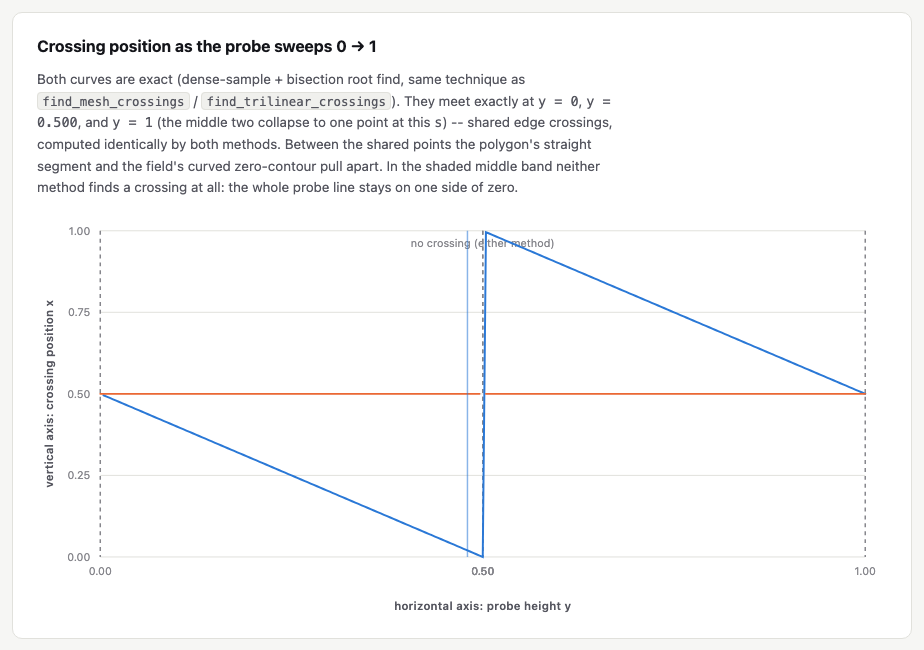
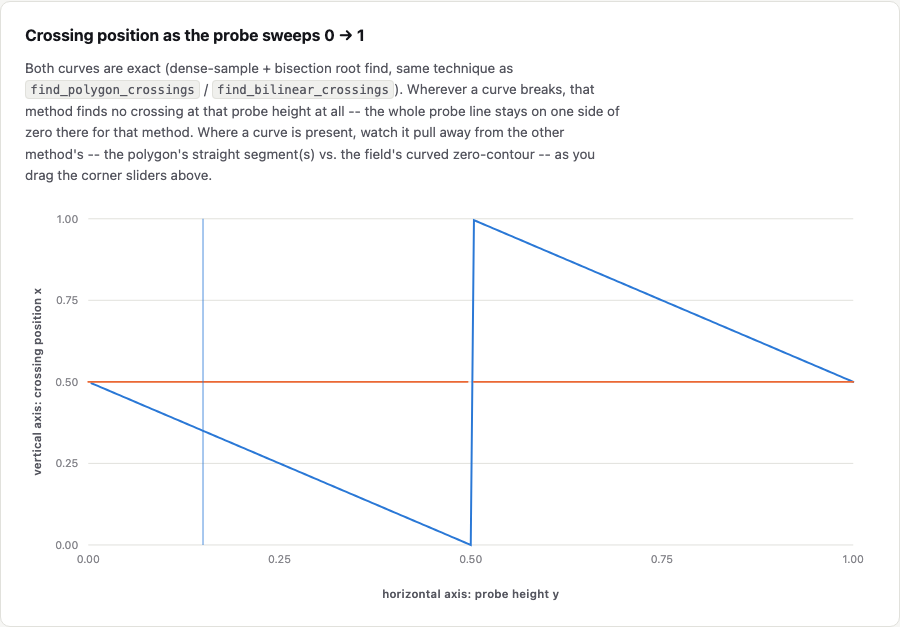
Make all four cell corners independently slider-controlled
Replaces the single s slider (which only reached the fixed case-5
saddle pattern, v0=v2=-s/v1=v3=1) with four independent corner
sliders, and ports levelset2d_polygon's full 16-case MarchCell switch
into the page's JS (previously it only implemented case 5's branch).
Every corner-sign combination is now reachable, including the
complementary case-10 saddle and all 12 unambiguous single-segment
cases.

The case-5-specific "shared boundary" dashed lines and no-crossing
gap band in the sweep chart didn't generalize to arbitrary corners,
so those are replaced with a generic description. Regenerated the
three README preview images to match (same states as before, just
without the now-removed annotations).

diff --git a/docs/polygon_vs_bilinear_probe.html b/docs/polygon_vs_bilinear_probe.html
@@ -20,7 +20,6 @@
     --outside: #e34948;
     --diverge-mid: #f0efec;
 
-    --gap-fill: rgba(134, 134, 140, 0.12);
     --focus: #2a78d6;
   }
   @media (prefers-color-scheme: dark) {
@@ -43,7 +42,6 @@
       --outside: #e66767;
       --diverge-mid: #383835;
 
-      --gap-fill: rgba(121, 122, 130, 0.18);
       --focus: #3987e5;
     }
   }
@@ -66,7 +64,6 @@
     --outside: #e66767;
     --diverge-mid: #383835;
 
-    --gap-fill: rgba(121, 122, 130, 0.18);
     --focus: #3987e5;
   }
   :root[data-theme="light"] .viz-root {
@@ -88,7 +85,6 @@
     --outside: #e34948;
     --diverge-mid: #f0efec;
 
-    --gap-fill: rgba(134, 134, 140, 0.12);
     --focus: #2a78d6;
   }
 
@@ -245,6 +241,8 @@
   .slider-row { display: flex; flex-direction: column; gap: 8px; }
   .slider-row .slider-label { display: flex; justify-content: space-between; font-size: 12.5px; color: var(--text-secondary); }
   .slider-row input[type="range"] { width: 100%; accent-color: var(--focus); }
+  .corner-sliders { display: grid; grid-template-columns: 1fr 1fr; gap: 10px 16px; }
+  @media (max-width: 420px) { .corner-sliders { grid-template-columns: 1fr; } }
 
   .readout {
     display: flex;
@@ -279,9 +277,6 @@
   .axis-label { fill: var(--text-muted); font-size: 11px; }
   .axis-title { fill: var(--text-secondary); font-size: 11.5px; font-weight: 600; letter-spacing: 0.02em; }
   .gridline { stroke: var(--border); stroke-width: 1; }
-  .gap-band { fill: var(--gap-fill); }
-  .coincide-line { stroke: var(--text-muted); stroke-width: 1.5; stroke-dasharray: 4 4; }
-  .region-label { fill: var(--text-muted); font-size: 11px; }
   .line-mesh { fill: none; stroke: var(--mesh); stroke-width: 2; stroke-linecap: round; }
   .line-bl { fill: none; stroke: var(--bl); stroke-width: 2; stroke-linecap: round; }
   .crosshair { stroke: var(--text-muted); stroke-width: 1; }
@@ -324,27 +319,30 @@
 <div class="viz-page">
 
   <header class="viz-header">
-    <span class="eyebrow">levelset2d_polygon · single grid cell · case 5</span>
+    <span class="eyebrow">levelset2d_polygon · single grid cell · all 16 MarchCell cases</span>
     <h1>Sweeping a measurement line across one cell</h1>
     <p class="lede">
-      One 2&times;2 level-set cell, corners 0 and 2 negative (inside), corners 1 and 3 positive
-      (outside, fixed at <code>+1</code>). A horizontal probe line scans from <code>y = 0</code> to
-      <code>y = 1</code>. At each height we compare where the extracted polygon's edge crosses the
-      probe against where the raw bilinear field itself crosses zero. Unlike the 3D marching-cubes
-      case, <code>levelset2d_polygon</code>'s marching squares resolves this saddle correctly (it
-      picks the topology using the true cell-center value) — so here the two methods never disagree
-      on <em>whether</em> there's a crossing, only on <em>where</em> it is, no matter how the
-      inside-corner magnitude is set.
+      One 2&times;2 level-set cell, all four corner values independently adjustable. A horizontal
+      probe line scans from <code>y = 0</code> to <code>y = 1</code>. At each height we compare
+      where the extracted polygon's edge crosses the probe against where the raw bilinear field
+      itself crosses zero. Every corner-sign combination runs through the same
+      <code>MarchCell</code> switch <code>levelset2d_polygon</code> itself uses (all 16 cases, not
+      just the saddle) -- including, for the two ambiguous saddle cases (5 and 10), the true
+      cell-center-value disambiguation. That's why, unlike the 3D marching-cubes case, the two
+      methods here never disagree on <em>whether</em> there's a crossing, only on <em>where</em> it
+      is, no matter how the four corners are set.
     </p>
   </header>
 
   <section class="card">
     <h2>Move the probe line</h2>
     <p class="desc">
-      Drag the slider to move the horizontal probe from the bottom edge to the top edge. The polygon
-      (blue) is the two straight segments <code>levelset2d_polygon</code>'s <code>MarchCell</code>
-      actually emits for this configuration; the field behind it is the true bilinear value, colored
-      blue (inside) to red (outside).
+      Drag each corner slider to set that corner's level-set value (negative = inside, positive =
+      outside); drag the probe slider to move the horizontal probe from the bottom edge to the top
+      edge. The polygon (blue) is whichever straight segment(s) -- zero, one, or two, depending on
+      which of <code>MarchCell</code>'s 16 cases the current corner signs land on --
+      <code>levelset2d_polygon</code>'s <code>MarchCell</code> actually emits for this configuration;
+      the field behind it is the true bilinear value, colored blue (inside) to red (outside).
     </p>
     <div class="legend">
       <div class="legend-item"><span class="swatch" style="background:var(--mesh)"></span>Polygon crossing (marching squares)</div>
@@ -369,9 +367,23 @@
         </div>
       </div>
       <div style="display:flex; flex-direction:column; gap:16px;">
-        <div class="slider-row">
-          <div class="slider-label"><span>inside-corner magnitude <span class="mono" id="sLabel">s = 2.00</span></span><span>0.2 &rarr; 3.0</span></div>
-          <input type="range" id="sSlider" min="0.2" max="3.0" step="0.05" value="2.0" />
+        <div class="corner-sliders">
+          <div class="slider-row">
+            <div class="slider-label"><span>corner 0 <span class="mono" id="v0Label">v0 = -2.00</span></span></div>
+            <input type="range" id="v0Slider" min="-3.0" max="3.0" step="0.1" value="-2.0" />
+          </div>
+          <div class="slider-row">
+            <div class="slider-label"><span>corner 1 <span class="mono" id="v1Label">v1 = 1.00</span></span></div>
+            <input type="range" id="v1Slider" min="-3.0" max="3.0" step="0.1" value="1.0" />
+          </div>
+          <div class="slider-row">
+            <div class="slider-label"><span>corner 2 <span class="mono" id="v2Label">v2 = -2.00</span></span></div>
+            <input type="range" id="v2Slider" min="-3.0" max="3.0" step="0.1" value="-2.0" />
+          </div>
+          <div class="slider-row">
+            <div class="slider-label"><span>corner 3 <span class="mono" id="v3Label">v3 = 1.00</span></span></div>
+            <input type="range" id="v3Slider" min="-3.0" max="3.0" step="0.1" value="1.0" />
+          </div>
         </div>
         <div class="slider-row">
           <div class="slider-label"><span>probe height <span class="mono" id="yLabel">y = 0.15</span></span><span>0 &rarr; 1</span></div>
@@ -392,11 +404,11 @@
   </section>
 
   <footer class="viz-footer">
-    Corner values and topology follow <code>levelset2d_polygon</code>'s own
-    <code>detail/marching_squares.hpp</code> <code>MarchCell</code> case 5 exactly: the cell-center
-    value picks <code>B()&ndash;R()</code> / <code>T()&ndash;L()</code> when negative, or
-    <code>B()&ndash;L()</code> / <code>T()&ndash;R()</code> when positive. This page's JS
-    reproduces <code>levelset2d_bilinear_measure</code>'s
+    Topology follows <code>levelset2d_polygon</code>'s own
+    <code>detail/marching_squares.hpp</code> <code>MarchCell</code> exactly -- the full 16-case
+    switch on corner signs, including both ambiguous saddle cases' (5 and 10) true
+    cell-center-value disambiguation, not just the fixed case-5 configuration this page used to
+    show. This page's JS reproduces <code>levelset2d_bilinear_measure</code>'s
     <code>bilinear.hpp</code>/<code>polygon_intersection.hpp</code> exactly (same
     dense-sample-plus-bisection root find as that library's
     <code>FindBilinearCrossings</code>) and is cross-checked against that library's own
@@ -417,25 +429,41 @@
     return [pa[0] + t * (pb[0] - pa[0]), pa[1] + t * (pb[1] - pa[1])];
   }
 
-  let S, V00, V10, V11, V01, CENTER, B, R, T, L, SEGMENTS, T_LO, T_HI;
+  let V00, V10, V11, V01, SEGMENTS;
 
+  // Full port of levelset2d_polygon's detail/marching_squares.hpp MarchCell:
+  // the same 4-bit case index (bit c set when corner c is inside), the same
+  // 12 unambiguous single-segment cases, and the same true-center-value
+  // disambiguation for the two ambiguous saddle cases (5 and 10).
   function computeGeometry() {
-    V00 = -S; V10 = 1; V11 = -S; V01 = 1;
-    CENTER = (V00 + V10 + V11 + V01) / 4;
-    B = interp(P00, V00, P10, V10);
-    R = interp(P10, V10, P11, V11);
-    T = interp(P01, V01, P11, V11);
-    L = interp(P00, V00, P01, V01);
-    // case 5: center < 0 -> connected topology (B-R, T-L); center > 0 -> B-L, T-R.
-    // Matches levelset2d_polygon's MarchCell exactly for either sign.
-    SEGMENTS = CENTER < 0 ? [[B, R], [T, L]] : [[B, L], [T, R]];
-    // Both branches' segments span y in [0, S/(1+S)] and [1/(1+S), 1] (just
-    // paired with different corners), so the shared boundary heights -- where
-    // mesh and bilinear crossings coincide exactly, since they're literally
-    // reading the same edge-interpolated value -- are always these two.
-    const a = S / (1 + S), b = 1 / (1 + S);
-    T_LO = Math.min(a, b);
-    T_HI = Math.max(a, b);
+    const in00 = V00 < 0, in10 = V10 < 0, in11 = V11 < 0, in01 = V01 < 0;
+    const caseIndex = (in00 ? 1 : 0) | (in10 ? 2 : 0) | (in11 ? 4 : 0) | (in01 ? 8 : 0);
+
+    const B = interp(P00, V00, P10, V10);
+    const R = interp(P10, V10, P11, V11);
+    const T = interp(P01, V01, P11, V11);
+    const L = interp(P00, V00, P01, V01);
+    const center = (V00 + V10 + V11 + V01) / 4;
+
+    switch (caseIndex) {
+      case 0: case 15: SEGMENTS = []; break;
+      case 1: SEGMENTS = [[B, L]]; break;
+      case 2: SEGMENTS = [[R, B]]; break;
+      case 3: SEGMENTS = [[R, L]]; break;
+      case 4: SEGMENTS = [[T, R]]; break;
+      case 6: SEGMENTS = [[T, B]]; break;
+      case 7: SEGMENTS = [[T, L]]; break;
+      case 8: SEGMENTS = [[L, T]]; break;
+      case 9: SEGMENTS = [[B, T]]; break;
+      case 11: SEGMENTS = [[R, T]]; break;
+      case 12: SEGMENTS = [[L, R]]; break;
+      case 13: SEGMENTS = [[B, R]]; break;
+      case 14: SEGMENTS = [[L, B]]; break;
+      // corners 0,2 inside; 1,3 outside -- ambiguous, disambiguated by center.
+      case 5: SEGMENTS = center < 0 ? [[B, R], [T, L]] : [[B, L], [T, R]]; break;
+      // corners 1,3 inside; 0,2 outside -- the complementary saddle.
+      case 10: SEGMENTS = center < 0 ? [[L, B], [R, T]] : [[R, B], [L, T]]; break;
+    }
   }
 
   function bilinear(x, y) {
@@ -482,8 +510,8 @@
   // ---- cell panel ---------------------------------------------------
 
   const cellWrap = document.getElementById("cellWrap");
-  const sSlider = document.getElementById("sSlider");
-  const sLabel = document.getElementById("sLabel");
+  const cornerSliders = [0, 1, 2, 3].map((i) => document.getElementById("v" + i + "Slider"));
+  const cornerLabels = [0, 1, 2, 3].map((i) => document.getElementById("v" + i + "Label"));
   const ySlider = document.getElementById("ySlider");
   const yLabel = document.getElementById("yLabel");
   const readout = document.getElementById("readout");
@@ -588,19 +616,13 @@
   function fmt(x) { return x.toFixed(3); }
 
   function updateChartDesc() {
-    const meetPoints = T_HI - T_LO < 0.0005
-      ? '<span class="mono">y = 0</span>, <span class="mono">y = ' + T_LO.toFixed(3) +
-        '</span>, and <span class="mono">y = 1</span> (the middle two collapse to one point at ' +
-        'this <span class="mono">s</span>)'
-      : '<span class="mono">y = 0</span>, <span class="mono">y = ' + T_LO.toFixed(3) +
-        '</span>, <span class="mono">y = ' + T_HI.toFixed(3) + '</span>, and <span class="mono">y = 1</span>';
     chartDesc.innerHTML =
       'Both curves are exact (dense-sample + bisection root find, same technique as ' +
-      '<code>find_mesh_crossings</code> / <code>find_trilinear_crossings</code>). They meet ' +
-      'exactly at ' + meetPoints + ' -- shared edge crossings, computed identically by both ' +
-      "methods. Between the shared points the polygon's straight segment and the field's curved " +
-      'zero-contour pull apart. In the shaded middle band neither method finds a crossing at all: ' +
-      'the whole probe line stays on one side of zero.';
+      '<code>find_polygon_crossings</code> / <code>find_bilinear_crossings</code>). Wherever a ' +
+      "curve breaks, that method finds no crossing at that probe height at all -- the whole probe " +
+      'line stays on one side of zero there for that method. Where a curve is present, watch it ' +
+      "pull away from the other method's -- the polygon's straight segment(s) vs. the field's " +
+      'curved zero-contour -- as you drag the corner sliders above.';
   }
 
   function updateProbe() {
@@ -716,7 +738,7 @@
       lbl.textContent = t.toFixed(2);
       svg.appendChild(lbl);
     });
-    const xTicks = [0, T_LO, 0.5, T_HI, 1.0];
+    const xTicks = [0, 0.25, 0.5, 0.75, 1.0];
     xTicks.forEach((y0) => {
       const lbl = svgEl("text", { class: "axis-label", x: xOf(y0), y: H - M.bottom + 18, "text-anchor": "middle" });
       lbl.textContent = y0.toFixed(2);
@@ -732,18 +754,6 @@
     const xAxisTitle = svgEl("text", { class: "axis-title", x: M.left + plotW / 2, y: H - 8, "text-anchor": "middle" });
     xAxisTitle.textContent = "horizontal axis: probe height y";
     svg.appendChild(xAxisTitle);
-
-    // gap band: [T_LO, T_HI], where neither method has a crossing
-    svg.appendChild(svgEl("rect", {
-      class: "gap-band", x: xOf(T_LO), y: M.top, width: xOf(T_HI) - xOf(T_LO), height: plotH,
-    }));
-    const gapLabel = svgEl("text", { class: "region-label", x: (xOf(T_LO) + xOf(T_HI)) / 2, y: M.top + 16, "text-anchor": "middle" });
-    gapLabel.textContent = "no crossing (either method)";
-    svg.appendChild(gapLabel);
-
-    [0, T_LO, T_HI, 1].forEach((y0) => {
-      svg.appendChild(svgEl("line", { class: "coincide-line", x1: xOf(y0), x2: xOf(y0), y1: M.top, y2: H - M.bottom }));
-    });
 
     const meshCurve = buildCurve((y0) => meshCrossings(y0), "lower");
     const blCurve = buildCurve((y0) => bilinearCrossings(y0), "lower");
@@ -811,16 +821,17 @@
     updateProbe();
   }
 
-  function onSChange() {
-    S = parseFloat(sSlider.value);
-    sLabel.textContent = "s = " + S.toFixed(2);
+  function onCornersChange() {
+    const values = cornerSliders.map((s) => parseFloat(s.value));
+    [V00, V10, V11, V01] = values;
+    values.forEach((v, i) => { cornerLabels[i].textContent = "v" + i + " = " + v.toFixed(2); });
     computeGeometry();
     rebuildCell();
     rebuildChart();
     updateProbe();
   }
-  sSlider.addEventListener("input", onSChange);
+  cornerSliders.forEach((s) => s.addEventListener("input", onCornersChange));
 
-  onSChange();
+  onCornersChange();
 })();
 </script>

diff --git a/README.md b/README.md
@@ -50,40 +50,41 @@ cd build && ctest --output-on-failure
   closed loops).
 
 [`docs/polygon_vs_bilinear_probe.html`](docs/polygon_vs_bilinear_probe.html)
-visualizes both, on a single grid cell where corners 0 and 2 are inside
-(negative, magnitude `s`) and corners 1, 3 are outside (fixed at `+1`):
-drag a horizontal probe line across the cell and watch the two methods'
-crossing positions pull apart, then a chart of that same crossing
-position swept continuously across the full probe range. A second slider
-exposes the inside-corner magnitude `s` itself -- `MarchCell`'s topology
-branch flips at `s = 1` (which corner pair the two segments connect), but
-the two shared-boundary heights stay at `min(s, 1)/(1+s)` and
-`max(s, 1)/(1+s)` either way, so unlike
+visualizes both, on a single grid cell whose four corner values are each
+independently slider-controlled: drag a horizontal probe line across the
+cell and watch the two methods' crossing positions pull apart, then a
+chart of that same crossing position swept continuously across the full
+probe range. Every corner-sign combination runs through the same full
+16-case `MarchCell` switch `levelset2d_polygon` itself uses (not just the
+saddle case this page used to hardcode) -- including, for the two
+ambiguous saddle cases (5 and 10), the true cell-center-value
+disambiguation. That's why, unlike
 `levelset3d_trilinear_measure`'s fixed marching-cubes triangulation,
-`levelset2d_polygon`'s marching squares always resolves the saddle
-ambiguity correctly (via the true cell-center value): the two methods
-disagree only on *where* the crossing is, never on *whether* one exists,
-for any `s`. (This page's JS reproduces this library's exact math --
+`levelset2d_polygon`'s marching squares always resolves any saddle
+ambiguity correctly: the two methods disagree only on *where* the
+crossing is, never on *whether* one exists, no matter how the four
+corners are set. (This page's JS reproduces this library's exact math --
 see "Python bindings" below for how that's verified, not just asserted.)
 
-<img src="docs/images/polygon_vs_bilinear_probe_preview.png" width="860" alt="2D cell view with the probe at s=2, y=0.15, showing the polygon and bilinear crossings at slightly different x positions">
+<img src="docs/images/polygon_vs_bilinear_probe_preview.png" width="860" alt="2D cell view with corners set to a case-5 saddle (v0=-2, v1=1, v2=-2, v3=1) and the probe at y=0.15, showing the polygon and bilinear crossings at slightly different x positions">
 
-*Shown at `s = 2.00`, `y = 0.15`. Want to sweep the probe and the corner magnitude yourself?* [**Open it live**](https://k-naeba.github.io/levelset2d_bilinear_measure/polygon_vs_bilinear_probe.html).
+*Shown with corners `v0=-2.00, v1=1.00, v2=-2.00, v3=1.00` (the classic saddle case), probe at `y = 0.15`. Want to set each corner and sweep the probe yourself?* [**Open it live**](https://k-naeba.github.io/levelset2d_bilinear_measure/polygon_vs_bilinear_probe.html).
 
-The "crossing position as the probe sweeps" chart from this page, on its own. First, at
-`s = 0.90`, just shy of the interesting threshold -- an easier read to get oriented: both
-curves trace roughly the same rise, but pull apart noticeably around the middle before the
-gap band, where the polygon's straight edge dives to `x = 0` while the bilinear crossing
-eases off more gradually.
+The "crossing position as the probe sweeps" chart from this page, on its own, for two
+saddle configurations along the classic `v0=v2=-s, v1=v3=1` family (still fully reachable
+via the corner sliders). First, at `s = 0.90`, just shy of the interesting threshold -- an
+easier read to get oriented: both curves trace roughly the same rise, but pull apart
+noticeably around the middle, and each has its own height range where it finds no crossing
+at all.
 
-<img src="docs/images/polygon_vs_bilinear_sweep_chart_s09.png" width="860" alt="Crossing position vs. probe height y at s=0.90, showing the polygon and bilinear curves diverging noticeably around the middle of the sweep">
+<img src="docs/images/polygon_vs_bilinear_sweep_chart_s09.png" width="860" alt="Crossing position vs. probe height y at v0=v2=-0.90, v1=v3=1, showing the polygon and bilinear curves diverging noticeably around the middle of the sweep">
 
 Now push `s` to exactly `1.00` -- the asymptotic-decider threshold itself -- and the gap
 becomes as large as it ever gets. At `s = 1` the bilinear field factors into
 `(2x-1)(1-2y)`, so the true crossing freezes at `x = 0.5` for the *entire* sweep, while the
 polygon's straight-edge approximation still swings across almost the full width of the cell.
 
-<img src="docs/images/polygon_vs_bilinear_sweep_chart.png" width="860" alt="Crossing position vs. probe height y at s=1.00, showing the bilinear crossing frozen at x=0.5 while the polygon crossing swings across nearly the whole cell">
+<img src="docs/images/polygon_vs_bilinear_sweep_chart.png" width="860" alt="Crossing position vs. probe height y at v0=v2=-1.00, v1=v3=1, showing the bilinear crossing frozen at x=0.5 while the polygon crossing swings across nearly the whole cell">
 
 This page is self-contained (no build step, no server) and served
 directly from this repo's `docs/` folder via
